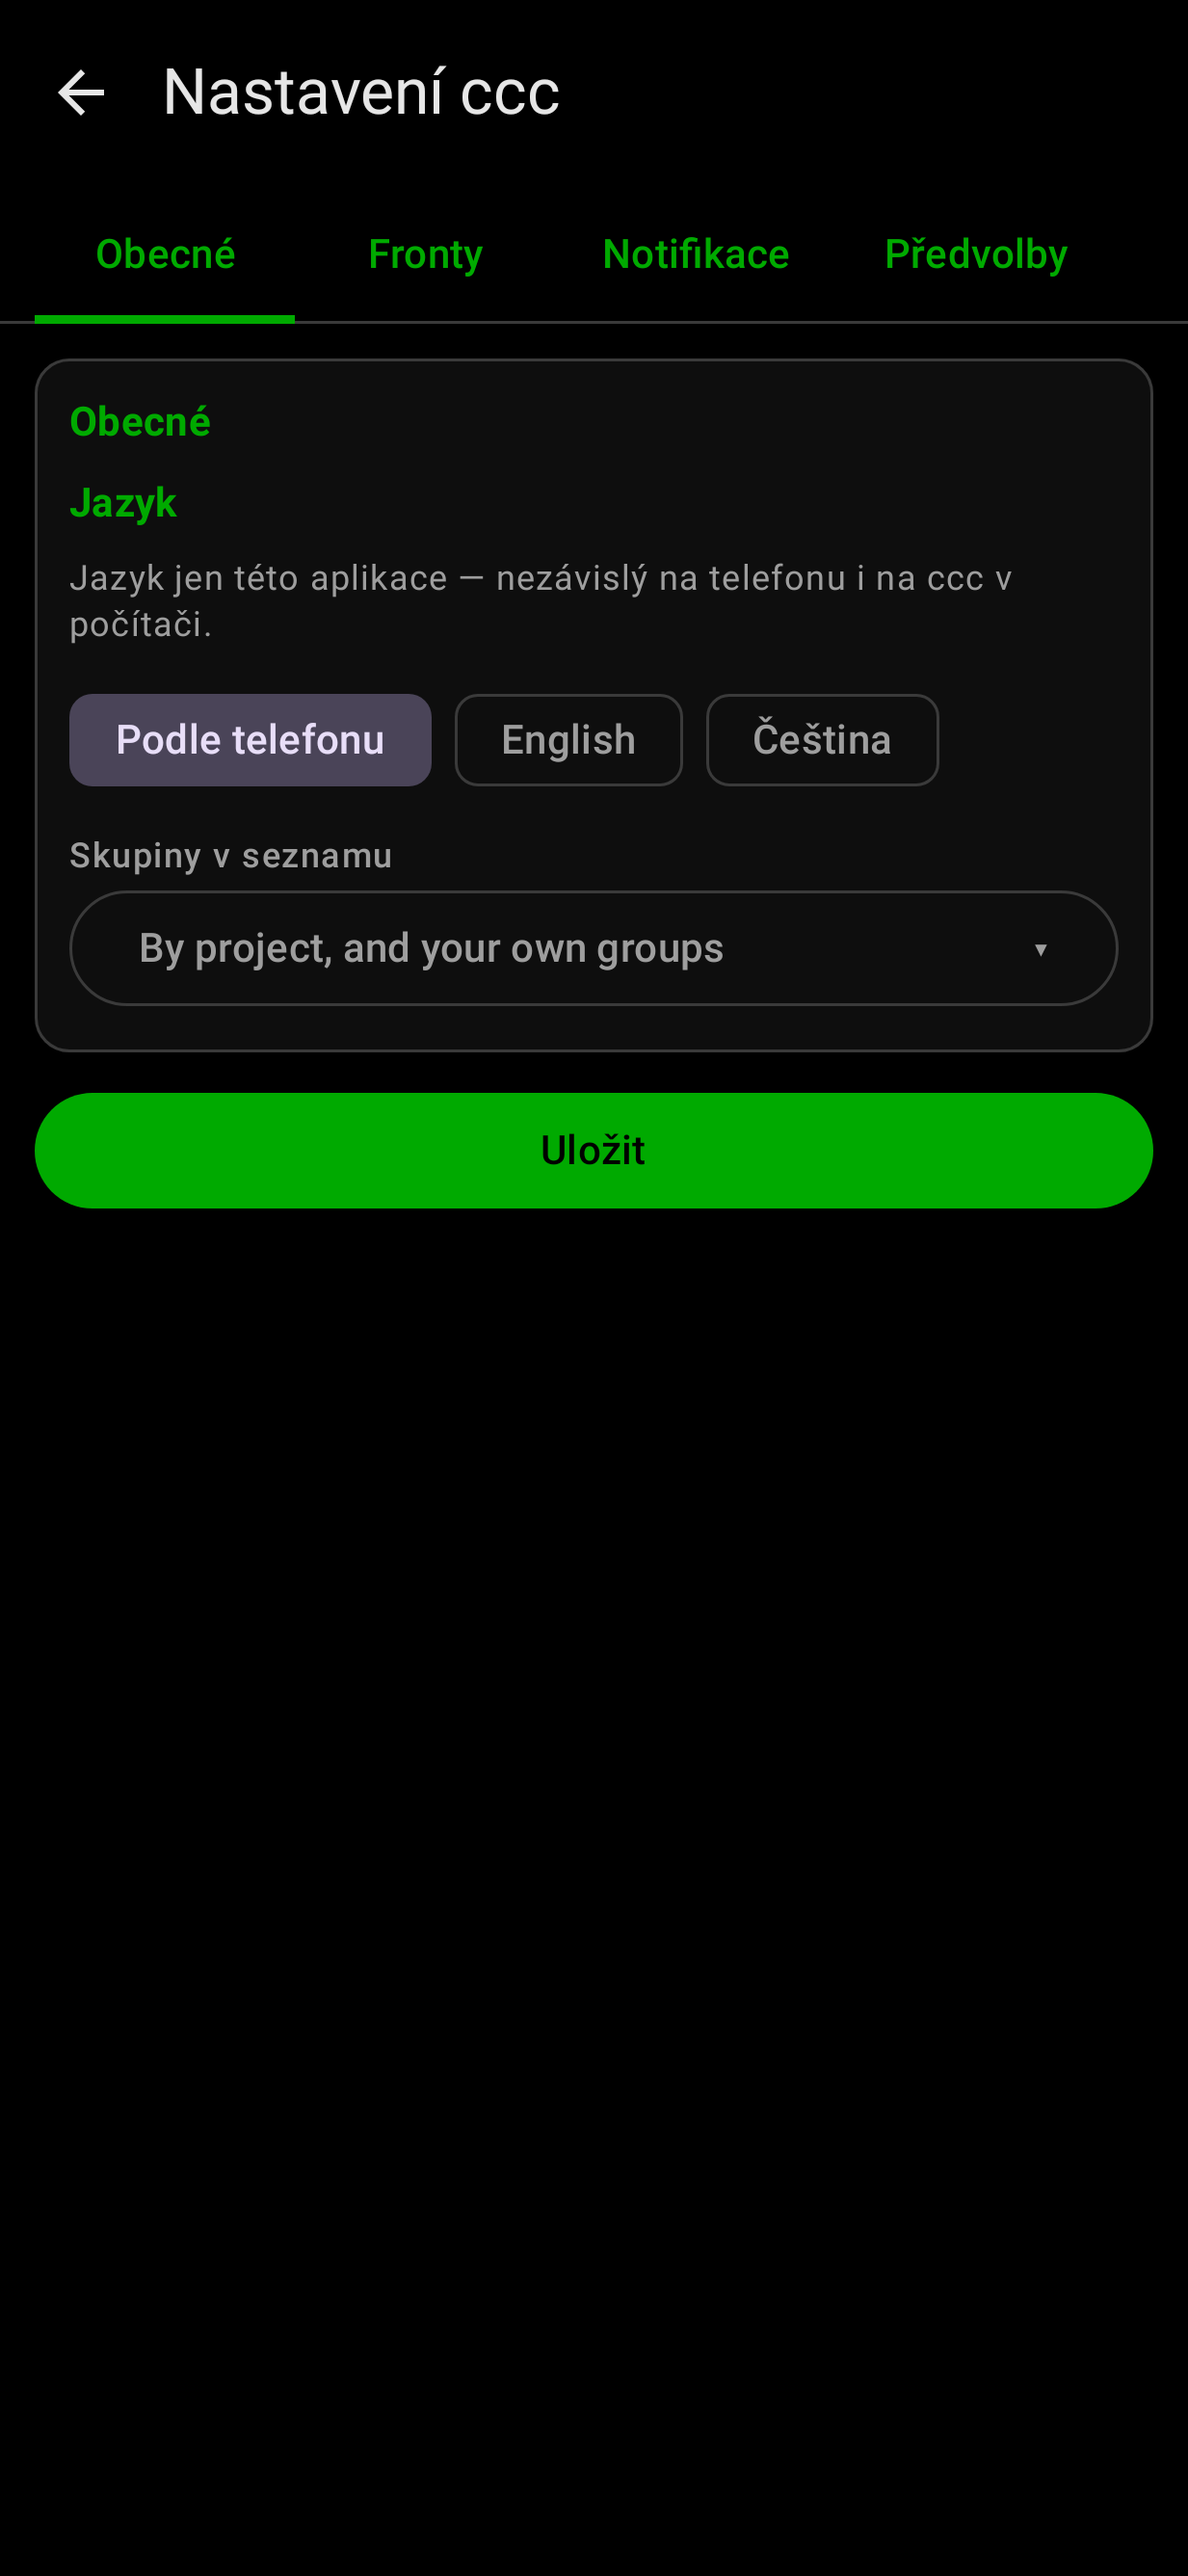
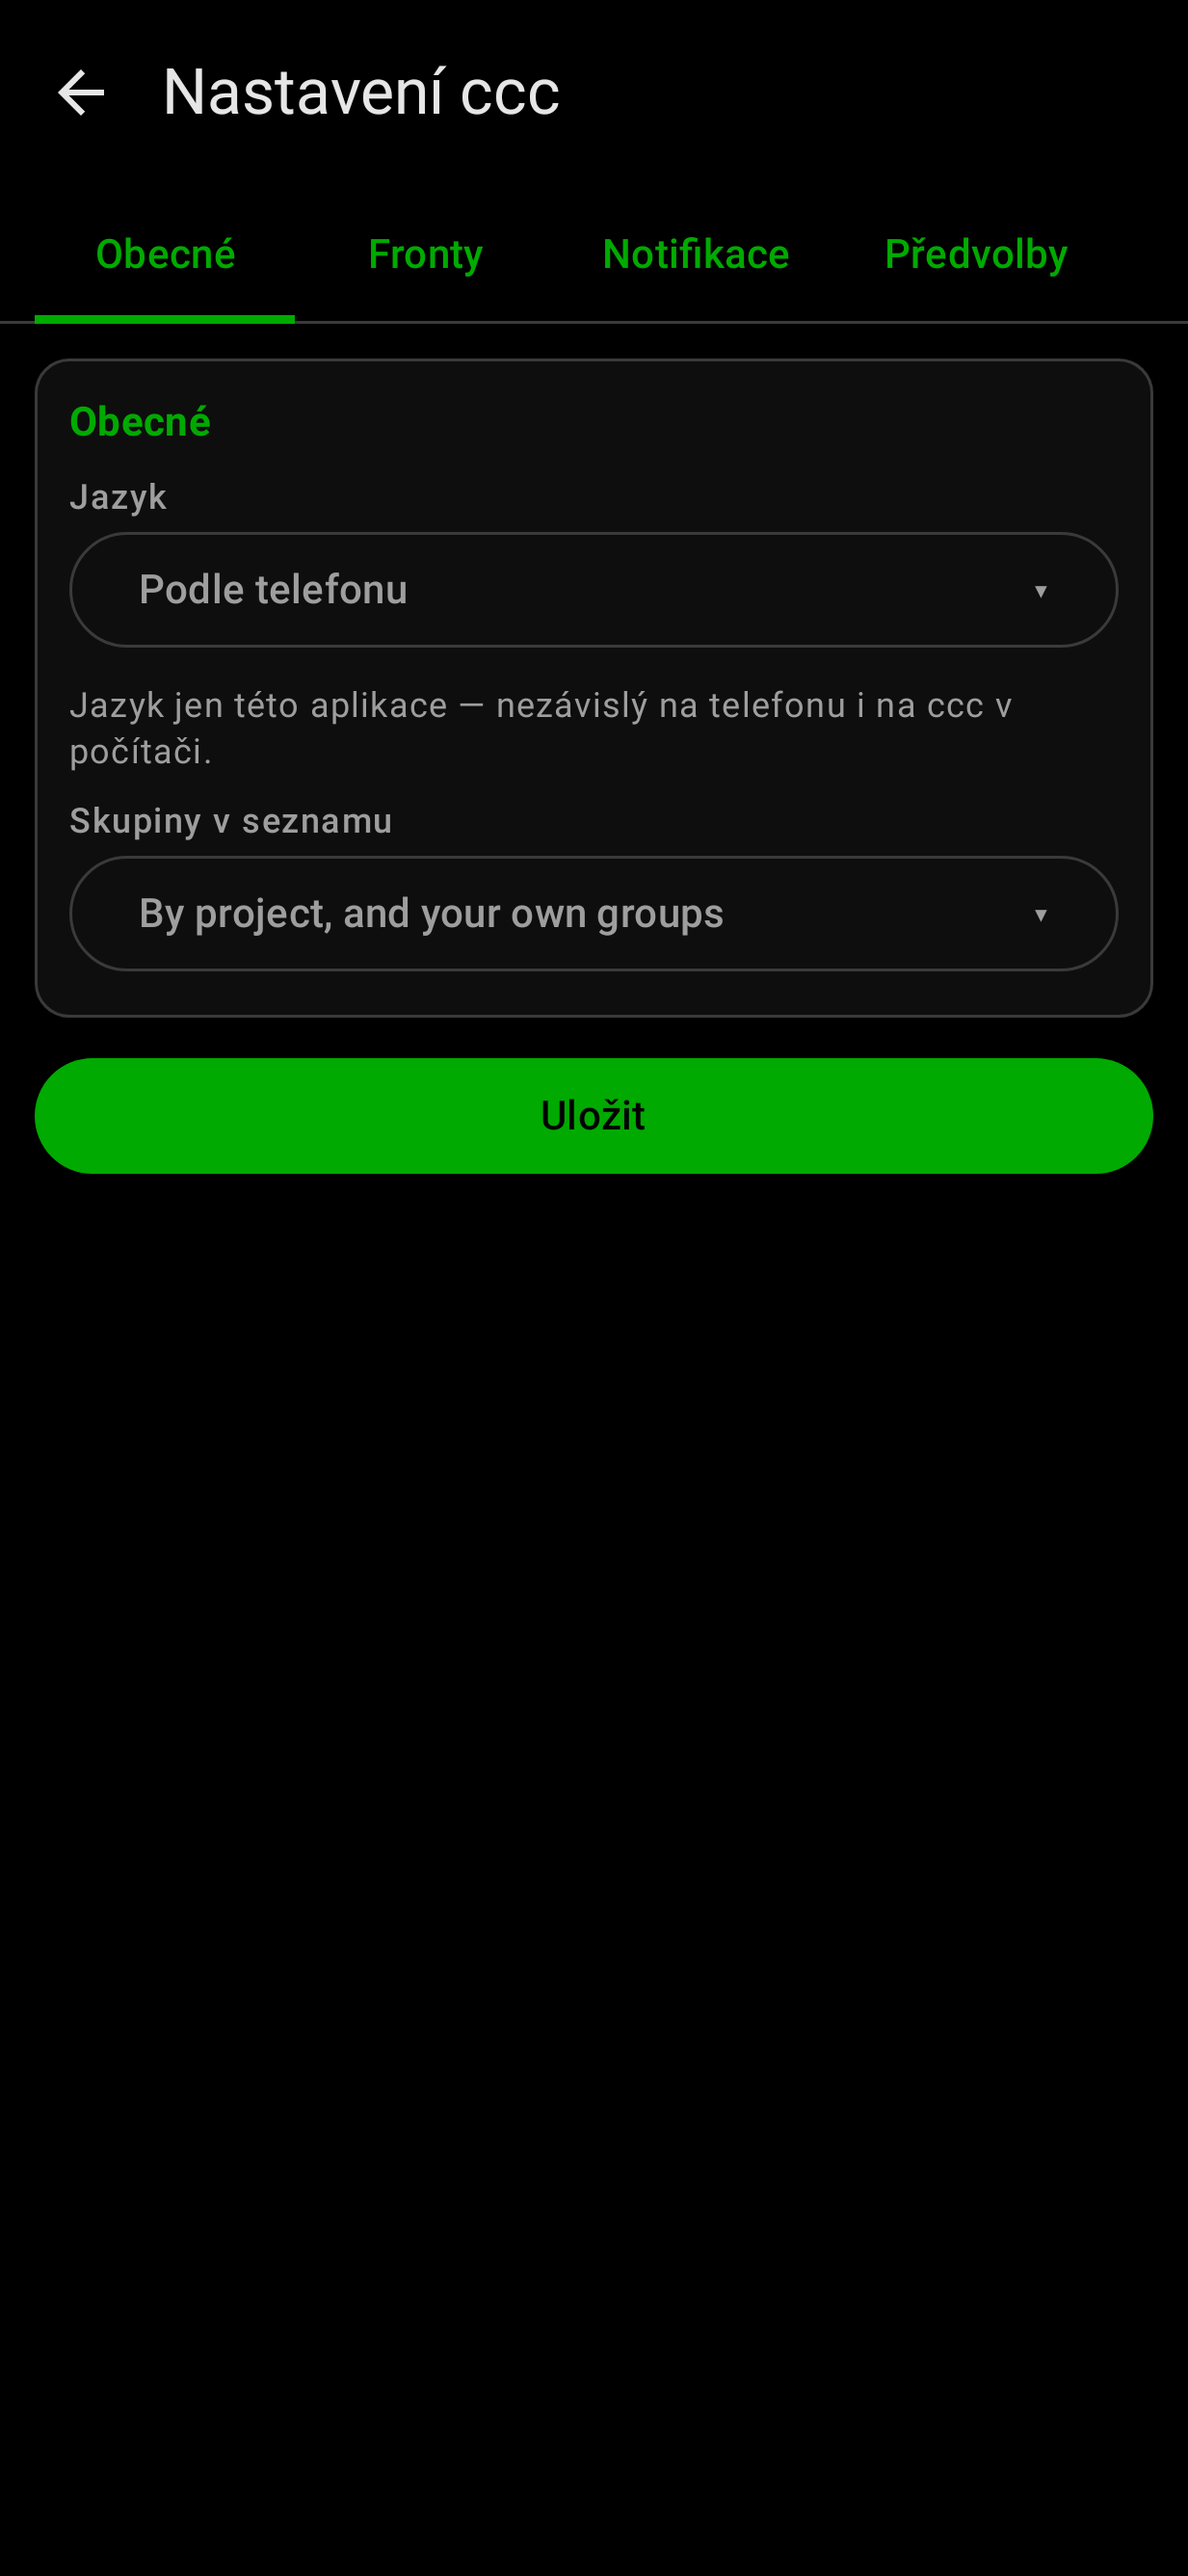
App: the language choice is a drop-down menu, not buttons

Changed region(s): [[0.0308, 0.1863, 0.9862, 0.4968], [0.9246, 0.3416, 0.9554, 0.3726]]

diff --git a/android/app/src/main/java/io/github/luquas95/ccc/ui/OtherScreens.kt b/android/app/src/main/java/io/github/luquas95/ccc/ui/OtherScreens.kt
@@ -520,18 +520,14 @@ private fun ConnectionCard(server: String, device: Device?, onDisconnect: () -> 
     }
 }
 
-/** The app's own language, apart from the phone's, the computer's and ccc's. */
-@OptIn(ExperimentalLayoutApi::class)
+/** The app's own language, apart from the phone's, the computer's and ccc's: a drop-down menu. */
 @Composable
 fun LanguageChoice(language: String, onLanguage: (String) -> Unit) {
-    Text(stringResource(R.string.app_language), style = MaterialTheme.typography.titleSmall,
-        color = CccColors.Title, fontWeight = FontWeight.Bold)
+    Picker(
+        stringResource(R.string.app_language), language,
+        listOf("" to stringResource(R.string.language_system)) + Language.CHOICES,
+    ) { if (it != language) onLanguage(it) }
     Text(stringResource(R.string.app_language_hint), style = MaterialTheme.typography.bodySmall, color = CccColors.Muted)
-    FlowRow(horizontalArrangement = Arrangement.spacedBy(8.dp)) {
-        (listOf("" to stringResource(R.string.language_system)) + Language.CHOICES).forEach { (tag, label) ->
-            FilterChip(selected = language == tag, onClick = { if (language != tag) onLanguage(tag) }, label = { Text(label) })
-        }
-    }
 }
 
 @Composable

diff --git a/android/app/src/test/java/io/github/luquas95/ccc/ui/ScreenshotsTest.kt b/android/app/src/test/java/io/github/luquas95/ccc/ui/ScreenshotsTest.kt
@@ -163,7 +163,7 @@ open class ScreenshotsTest {
     }
 
     @Test
-    fun cccSettingsGeneral() = shot("ccc_settings_general", "English") {
+    fun cccSettingsGeneral() = shot("ccc_settings_general", "By project") {
         CccSettingsScreen(settingsState, home.promptPresets, SnackbarHostState(), SettingsActions({}, {}, {}, {}, {}, {}, {}), initialTab = 0)
     }
 
